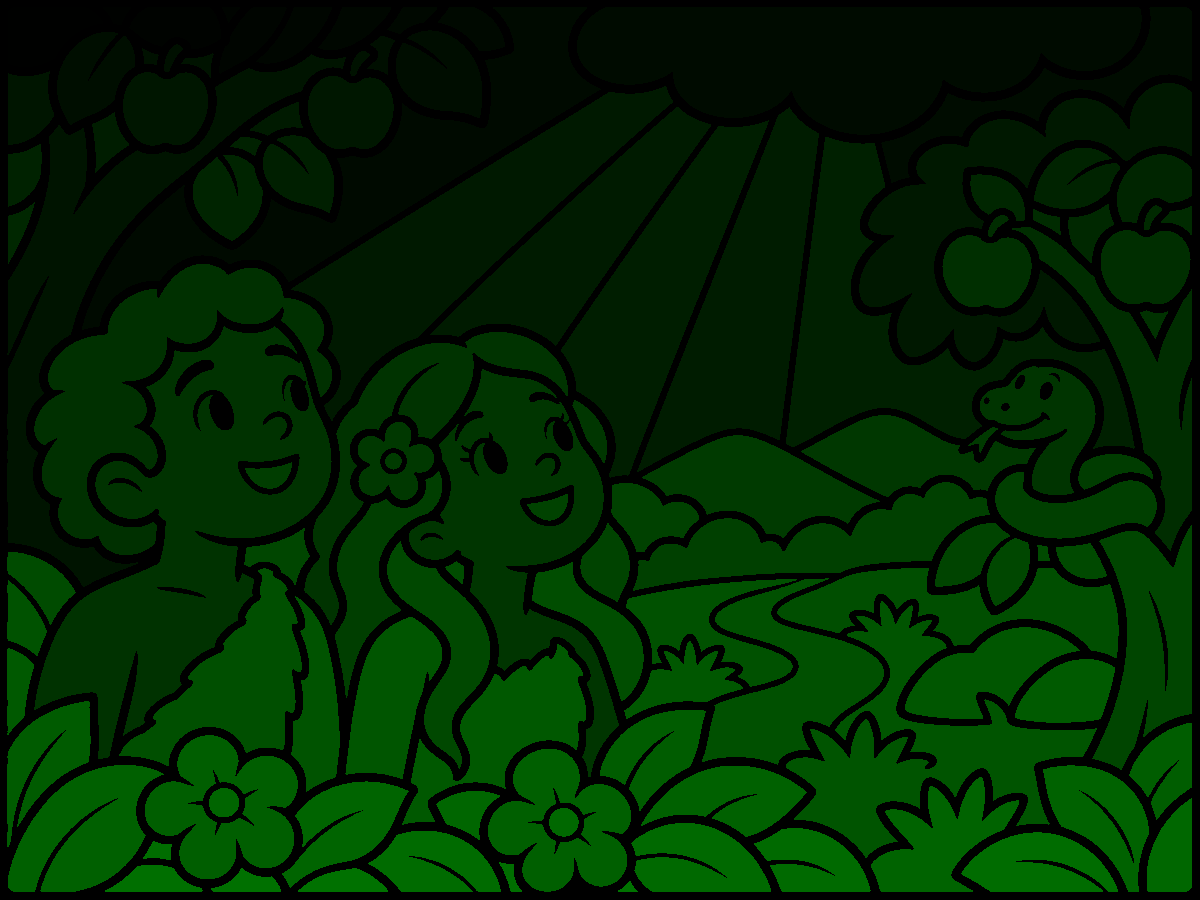
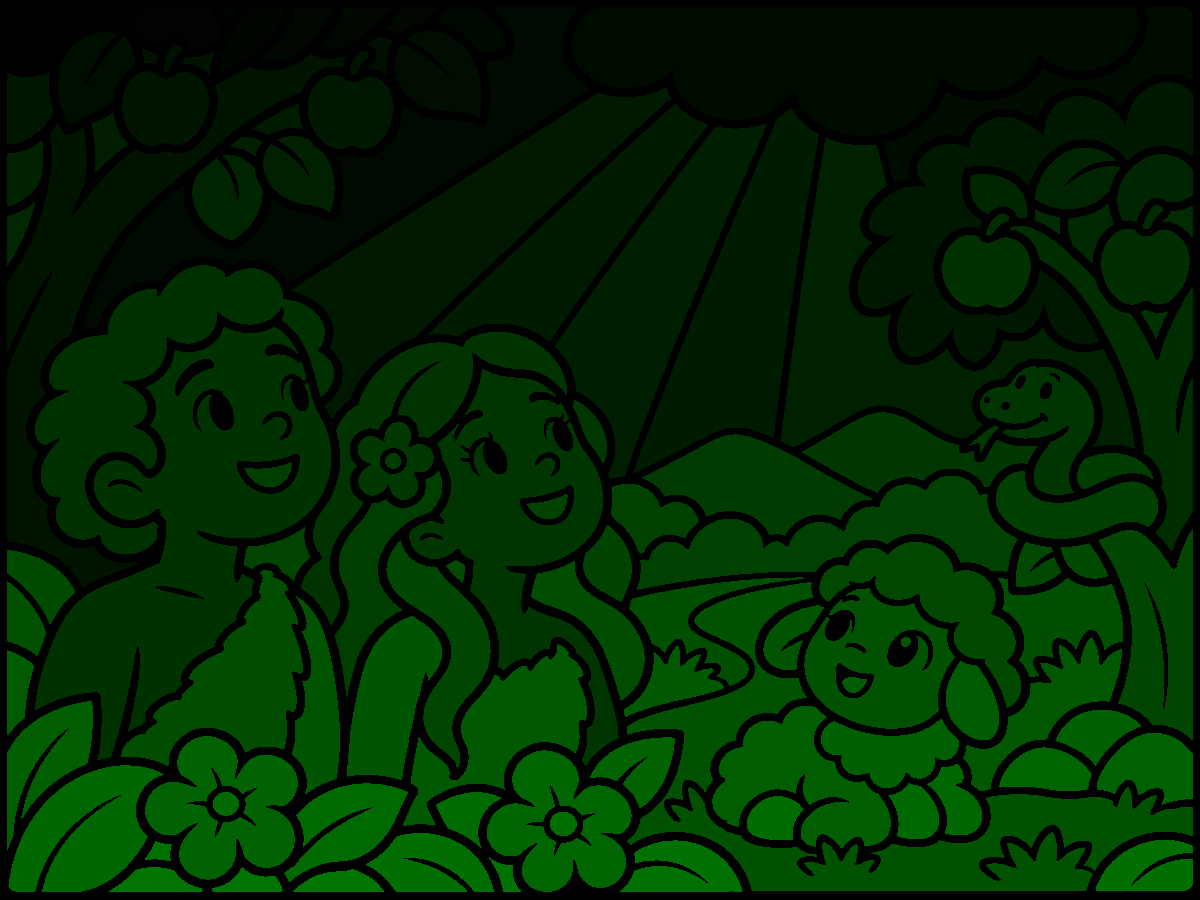
Advento: desenho da porta 1 com a ovelhinha
Claude-Session: https://claude.ai/code/session_01K2VXyFiT7zoPcX7tHk3zoS

diff --git a/sw.js b/sw.js
@@ -1,5 +1,5 @@
 /* Jogos Bíblicos — funciona sem internet. Versão: claude-v2.1-nine5 */
-const CACHE = 'jogos-biblicos-claude-v2.4-advento7';
+const CACHE = 'jogos-biblicos-claude-v2.4-advento8';
 const ASSETS = ['./', './Cinzel-Variable.woff', './Lora-Italic-Variable.woff', './Lora-Variable.woff', './app.css', './aurora.svg', './campo.svg', './cidade.svg', './confins.svg', './core.js', './dados-caca.js', './dados-cartas.js', './dados-colorir.js', './dados-cruzada.js', './dados-historia1.js', './dados-historia10.js', './dados-historia11.js', './dados-historia12.js', './dados-historia13.js', './dados-historia14.js', './dados-historia15.js', './dados-historia16.js', './dados-historia17.js', './dados-historia18.js', './dados-historia19.js', './dados-historia2.js', './dados-historia20.js', './dados-historia21.js', './dados-historia22.js', './dados-historia23.js', './dados-historia24.js', './dados-historia25.js', './dados-historia26.js', './dados-historia27.js', './dados-historia28.js', './dados-historia29.js', './dados-historia3.js', './dados-historia30.js', './dados-historia31.js', './dados-historia32.js', './dados-historia33.js', './dados-historia34.js', './dados-historia4.js', './dados-historia5.js', './dados-historia6.js', './dados-historia7.js', './dados-historia8.js', './dados-historia9.js', './dados-kids.js', './dados-ligacoes.js', './dados-memoria.js', './dados-natal.js', './dados-advento.js', './natal-estrela.webp', './natal-manjedoura.webp', './natal-lanterna.webp', './natal-belem.webp', './dados-palavra.js', './dados-quem.js', './dados-quiz.js', './dados-roda.js', './dados-tempo.js', './dados-versiculos.js', './deserto.svg', './galileia.svg', './hat.png', './hub.js', './icon-180.png', './icon-192.png', './icon-512.png', './index.html', './jardim.svg', './jogo-caca.js', './jogo-cartas.js', './jogo-colorir.js', './jogo-cruzada.js', './jogo-historia.js', './jogo-kids.js', './jogo-labirinto.js', './jogo-ligacoes.js', './jogo-memoria.js', './jogo-natal.js', './jogo-palavra.js', './jogo-quebra.js', './jogo-quem.js', './jogo-quiz.js', './jogo-roda.js', './jogo-tempo.js', './jogo-versiculo.js', './kit.js', './manifest.webmanifest', './mar.svg', './monte.svg', './nine-dica-pisca.webp', './nine-dica.webp', './nine-dormindo.webp', './nine-festa.webp', './nine-lendo-pisca.webp', './nine-lendo.webp', './nine-oi-pisca.webp', './nine-oi.webp', './nine-pensando-pisca.webp', './nine-pensando.webp', './nine-rosto.webp', './nine-sarca.webp', './nine.js', './noite.svg', './palacio.svg', './solver.js', './tumba.jpg'];
 self.addEventListener('install', e => { e.waitUntil(caches.open(CACHE).then(c => c.addAll(ASSETS)).then(() => self.skipWaiting())); });
 self.addEventListener('activate', e => { e.waitUntil(caches.keys().then(ks => Promise.all(ks.filter(k => k !== CACHE && k.startsWith('jogos-biblicos')).map(k => caches.delete(k)))).then(() => self.clients.claim())); });

diff --git a/dados-colorir.js b/dados-colorir.js
@@ -614,7 +614,7 @@ window.COLORIR_DATA = {
 "win": "Deus prometeu um Salvador que venceria o mal.",
 "w": 1200,
 "h": 900,
-"r": 114
+"r": 117
 }
 ]
 };
